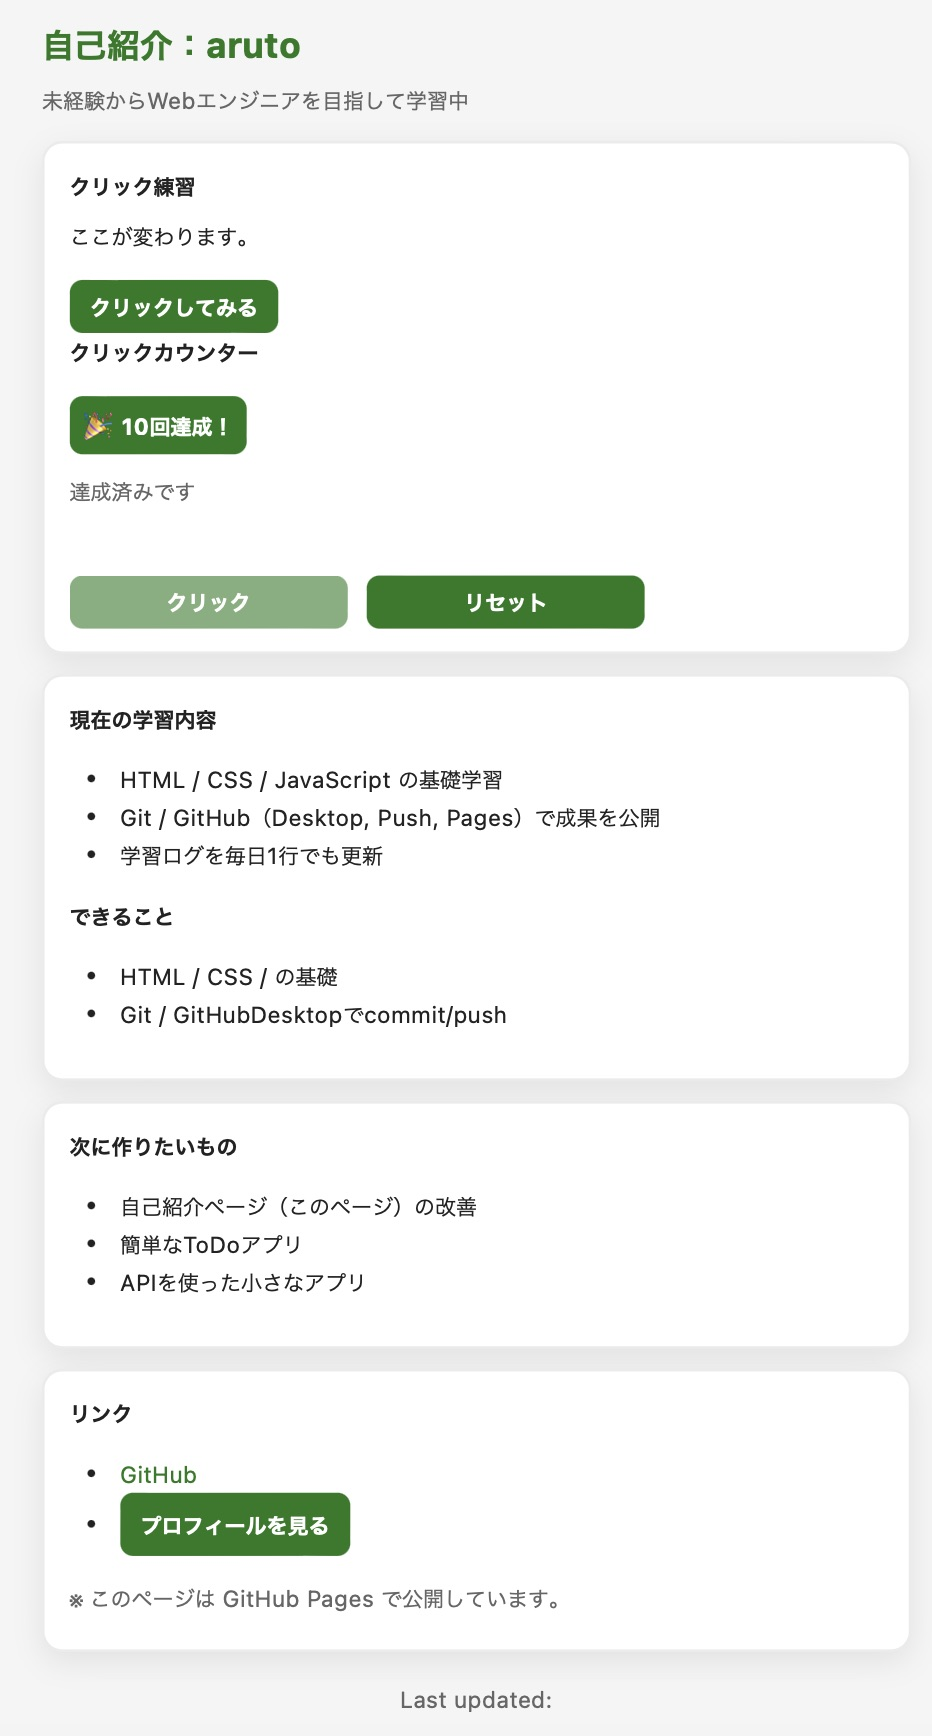
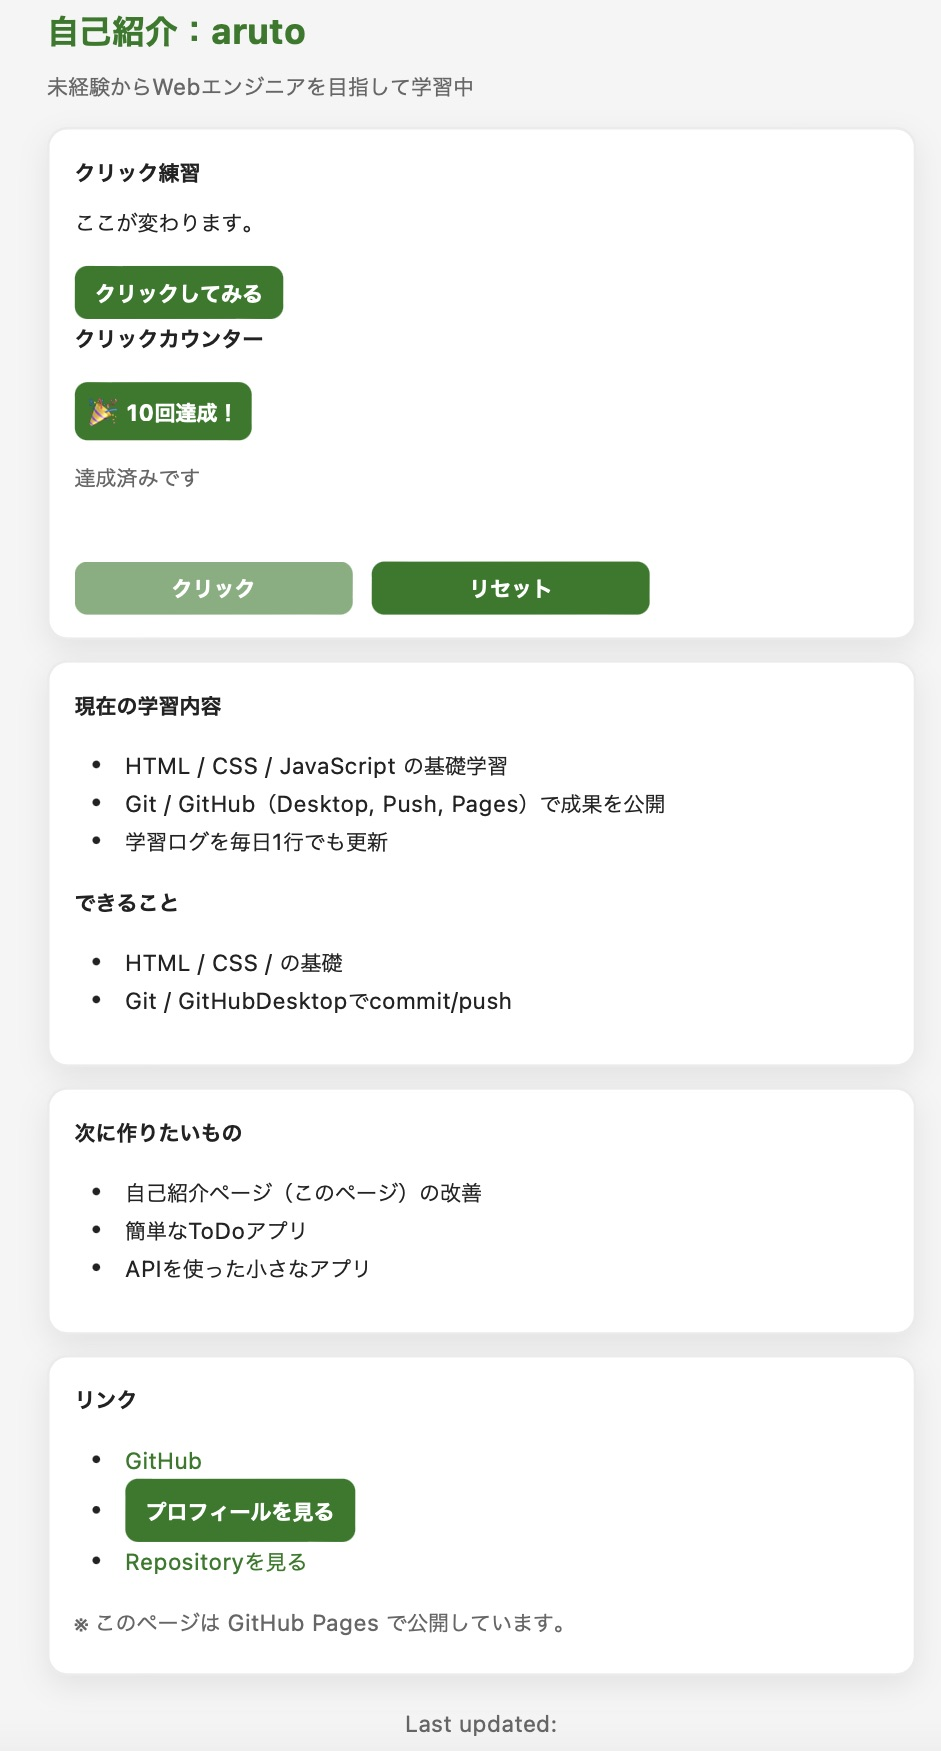
add repository link
-change screenshot

diff --git a/index.html b/index.html
@@ -56,6 +56,11 @@
       <ul>
         <li><a href="https://github.com/aruto-nick" target="_blank" rel="noreferrer">GitHub</a></li>
         <li><a href="#" class="btn">プロフィールを見る</a></li>
+        <li>
+          <a href="https://github.com/aruto-nick/click-counter" target="_blank">
+            Repositoryを見る
+          </a>
+        </li>
       </ul>
       <p class="note">※ このページは GitHub Pages で公開しています。</p>
     </section>
